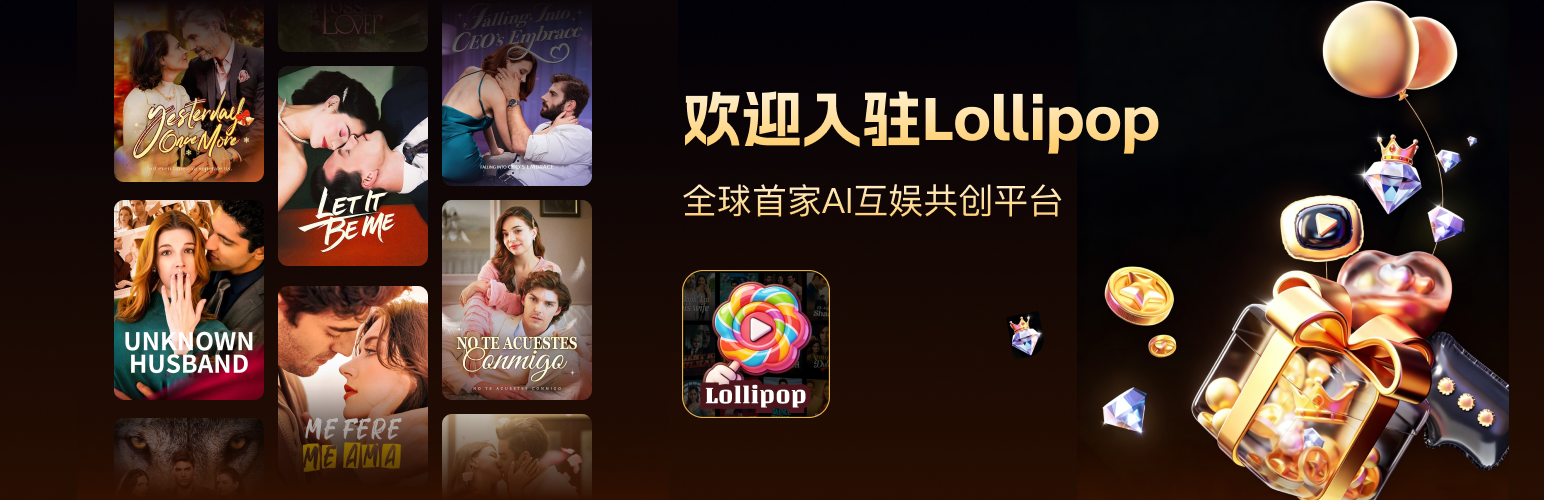
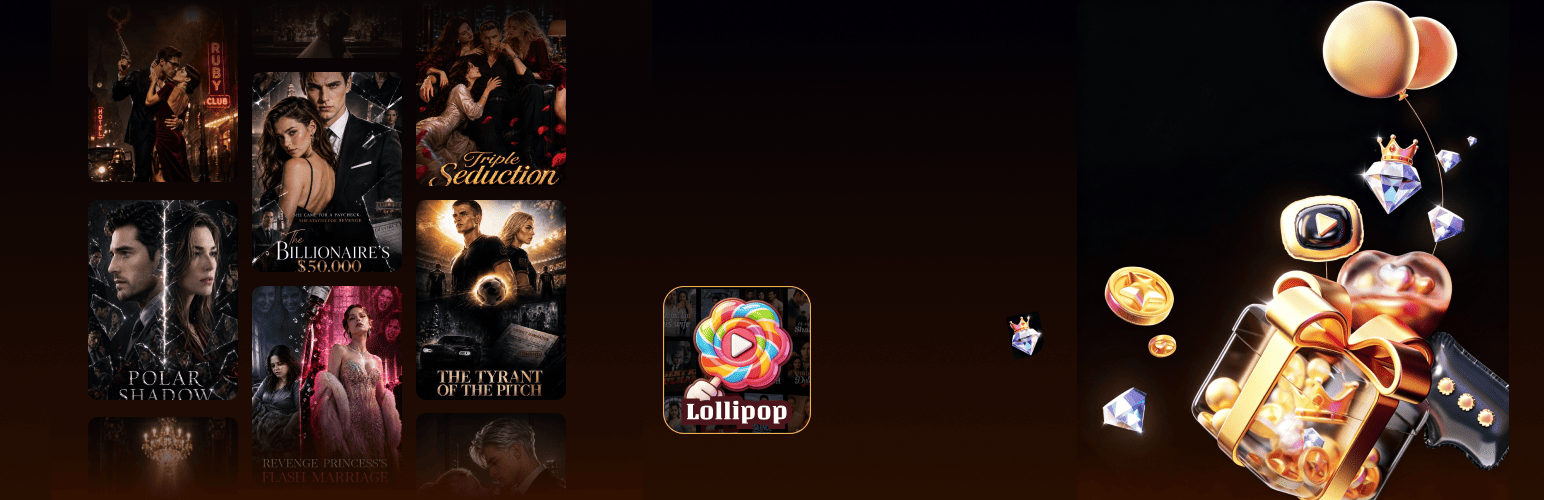
feat(distribution): 支持发行入驻横幅多语言展示
- 简体中文和英文使用对应横幅资源
- 其他语言保留背景图与前端文案
- 覆盖横幅语言分支回归测试

diff --git a/src/app/distribution/pages/EnrollPage.tsx b/src/app/distribution/pages/EnrollPage.tsx
@@ -9,6 +9,8 @@ import { AreaCodeSelect } from "../../components/AreaCodeSelect";
 import { COUNTRY_CODES } from "../../data/countryCodes";
 import { ImageUpload } from "../components/ImageUpload";
 import welcomeBanner from "../../../imports/发行入驻-欢迎横幅.png";
+import welcomeBannerCn from "../../../imports/发行入驻-欢迎横幅-cn.png";
+import welcomeBannerEn from "../../../imports/发行入驻-欢迎横幅-en.png";
 import { SiteHeader, type SiteNavItem } from "../../components/SiteHeader";
 import { ApiError } from "../../services/http";
 import { getLoginName, isAppAuthed, setAppToken, setLoginName } from "../../services/auth";
@@ -620,6 +622,8 @@ function FormView(props: {
 }) {
   const { t, errors, contactMode } = props;
   const isPhoneMode = contactMode === "phone";
+  const directBanner = props.locale === "zh-CN" ? welcomeBannerCn : props.locale === "en" ? welcomeBannerEn : null;
+  const isChineseBannerCopy = props.locale === "zh-TW";
 
   // 勾选文案：将 {terms}/{privacy} 占位渲染为可点击链接（点击打开弹窗，不触发勾选切换）；
   // 其余纯文本点击仍可切换勾选框。
@@ -660,13 +664,32 @@ function FormView(props: {
     <div className="max-w-[672px] mx-auto px-6 py-10">
       {/* 申请表单卡片（figma 15237-33706：#090101 + 24px 内边距 + 16px 圆角） */}
       <div className="bg-[#090101] rounded-[16px] p-6">
-        {/* 欢迎横幅：figma 15237-33708 导出的图片资源，整图出血至卡片边缘并保留顶部圆角 */}
-        <div className="-mx-6 -mt-6 mb-6">
-          <img
-            src={welcomeBanner}
-            alt={t.bannerTitle}
-            className="block w-full rounded-t-[16px] select-none pointer-events-none"
-          />
+        {/* 简体中文与英文使用设计资源；其余语言保留前端 i18n 文案层。 */}
+        <div className="relative -mx-6 -mt-6 mb-6 aspect-[1544/500] overflow-hidden rounded-t-[16px]">
+          {directBanner ? (
+            <img
+              src={directBanner}
+              alt={t.bannerTitle}
+              className="block w-full select-none pointer-events-none"
+            />
+          ) : (
+            <>
+              <img
+                src={welcomeBanner}
+                alt=""
+                aria-hidden="true"
+                className="absolute inset-0 block h-full w-full object-cover select-none pointer-events-none"
+              />
+              <div className="enroll-banner-copy absolute left-[44.5%] top-[8%] z-10 w-[37%] text-[#ffd480]">
+                <p className={isChineseBannerCopy ? "whitespace-nowrap text-[14px] font-semibold leading-[1.2] sm:text-[30px]" : "whitespace-nowrap text-[11px] font-semibold leading-[1.2] sm:text-[20px]"}>
+                  {t.bannerTitle}
+                </p>
+                <p className={isChineseBannerCopy ? "mt-[7%] whitespace-nowrap text-[10px] font-normal leading-[1.2] sm:text-[18px]" : "mt-[5%] text-[7px] font-normal leading-[1.2] sm:text-[9px]"}>
+                  {t.bannerSubtitle}
+                </p>
+              </div>
+            </>
+          )}
         </div>
 
         <h1 className="text-white" style={{ fontWeight: 500, fontSize: "1.5rem", letterSpacing: "0.07px" }}>
